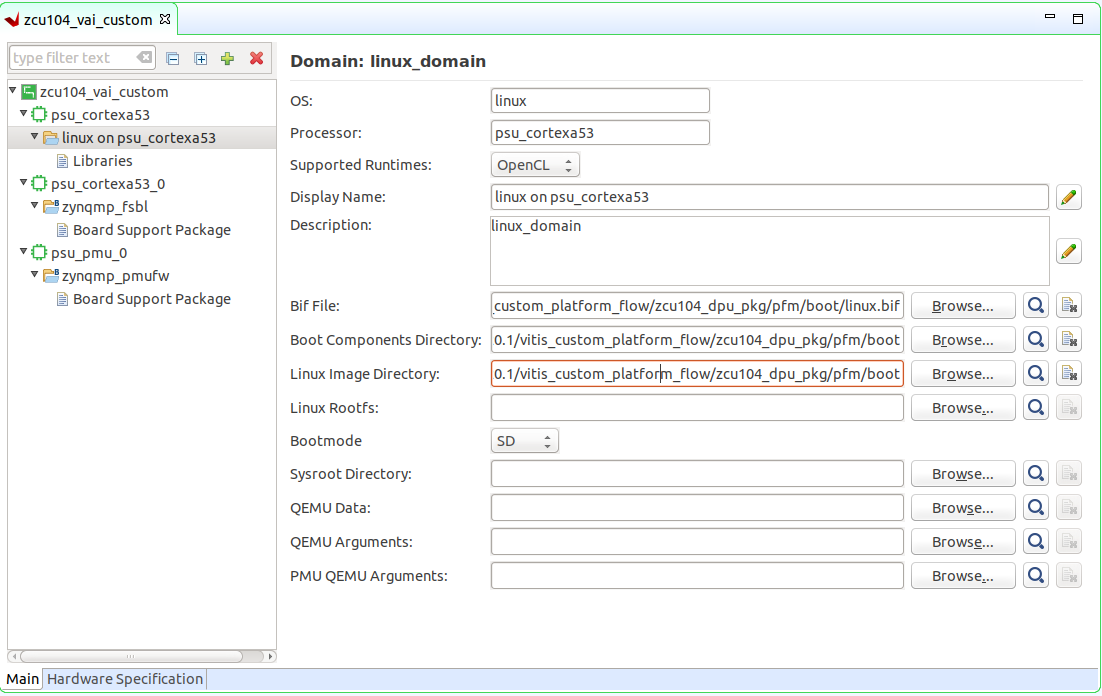
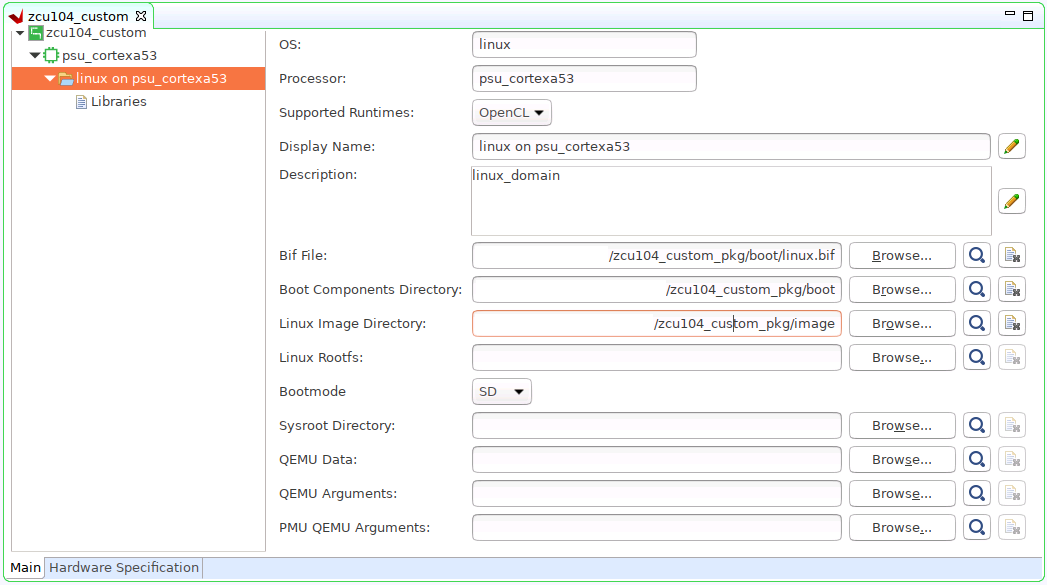
ml:sec5:m2: update step vitis platform

Changed region(s): [[0.0, 0.0, 1.0, 1.0], [0.2445, 0.7692, 0.3973, 0.8615]]

diff --git a/Machine_Learning_Tutorial/Section_5-Platform_Creation/Module_2/README.md b/Machine_Learning_Tutorial/Section_5-Platform_Creation/Module_2/README.md
@@ -215,6 +215,9 @@ write_hw_platform -unified ./zcu104_custom_platform.xsa
 ## Step 2: Create the Software Components with PetaLinux
 
 A Vitis platform requires software components. Xilinx provides common software images for quick evaluation. Here since we'd like to do more customization, we'll use the PetaLinux tools to create the Linux image and sysroot with XRT support. Yocto or third-party Linux development tools can also be used as long as they produce the same Linux output products as PetaLinux. 
+
+### PetaLinux Project Settings
+
 1. Setup PetaLinux environment: `source <petaLinux_tool_install_dir>/settings.sh`
 
 2. Create a PetaLinux project named ***zcu104_custom_plnx*** and configure the hw with the XSA file we created before:
@@ -228,9 +231,13 @@ A Vitis platform requires software components. Xilinx provides common software i
 3. A petalinux-config menu would be launched, select ***DTG Settings->MACHINE_NAME***, modify it to ```zcu104-revc```.<br />
     ***Note: If you are using a Xilinx development board it is recommended to modify the machine name so that the board configurations would be involved in the DTS auto-generation. Otherwise you would need to configure the associated settings(e.g. the PHY information DTS node) by yourself manually.***<br />
 
-4. Add user packages by appending the CONFIG_x lines below to the ***<your_petalinux_project_dir>/project-spec/meta-user/conf/user-rootfsconfig*** file.
 
-     ***Note: This step is not a must but it makes it easier to find and select all required packages in next step.***
+
+### Customize Root File System, Kernel, Device Tree and U-boot
+
+1. Add user packages by appending the CONFIG_x lines below to the ***<your_petalinux_project_dir>/project-spec/meta-user/conf/user-rootfsconfig*** file.
+
+   ***Note: This step is not a must but it makes it easier to find and select all required packages in next step.***
 
    Packages for base XRT support:
 
@@ -245,14 +252,14 @@ A Vitis platform requires software components. Xilinx provides common software i
    CONFIG_e2fsprogs-resize2fs
    CONFIG_parted
     ```
-   
+
     Packages for Vitis-AI dependencies support:
 
     ```
    CONFIG_packagegroup-petalinux-vitisai
     ```
 
-	Packages for natively building Vitis AI applications on target board: 
+   Packages for natively building Vitis AI applications on target board: 
 
     ```
    CONFIG_packagegroup-petalinux-self-hosted
@@ -274,24 +281,29 @@ A Vitis platform requires software components. Xilinx provides common software i
     CONFIG_packagegroup-petalinux-matchbox
     ```
 
-5. Run ```petalinux-config -c rootfs``` and select ***user packages***, select name of rootfs all the libraries listed above, save and exit.
-![petalinux_rootfs.png](images/petalinux_rootfs.png)
+2. Run ```petalinux-config -c rootfs``` and select ***user packages***, select name of rootfs all the libraries listed above, save and exit.
+    ![petalinux_rootfs.png](images/petalinux_rootfs.png)
 
-6. Enable OpenSSH and disable dropbear 
-Dropbear is the default SSH tool in Vitis Base Embedded Platform. If OpenSSH is used to replace Dropbear, the system could achieve 4x times faster data transmission speed (tested on 1Gbps Ethernet environment). Since Vitis-AI applications may use remote display feature to show machine learning results, using OpenSSH can improve the display experience.<br /> 
-    a) Run ```petalinux-config -c rootfs```.<br /> 
-    b) Go to ***Image Features***.<br /> 
-    c) Disable ***ssh-server-dropbear*** and enable ***ssh-server-openssh***. 
-    ![ssh_settings.png](images/ssh_settings.png)<br />
-    d) Go to ***Filesystem Packages-> misc->packagegroup-core-ssh-dropbear*** and disable ***packagegroup-core-ssh-dropbear***.<br />
-    e) Go to ***Filesystem Packages  -> console  -> network -> openssh*** and enable ***openssh***, ***openssh-sftp-server***, ***openssh-sshd***, ***openssh-scp***.<br />
-7. In rootfs config go to ***Image Features*** and enable ***package-management*** and ***debug_tweaks*** option, store the change and exit.<br />
-8. CPU IDLE would cause CPU IDLE when JTAG is connected. So it is recommended to disable the selection during project development phase. It can be enabled for production to save power.<br /> 
+3. Enable OpenSSH and disable dropbear 
+    Dropbear is the default SSH tool in Vitis Base Embedded Platform. If OpenSSH is used to replace Dropbear, the system could achieve 4x times faster data transmission speed (tested on 1Gbps Ethernet environment). Since Vitis-AI applications may use remote display feature to show machine learning results, using OpenSSH can improve the display experience. 
+   a) Run ```petalinux-config -c rootfs``` 
+   b) Go to ***Image Features***. 
+   c) Disable ***ssh-server-dropbear*** and enable ***ssh-server-openssh***. 
+   ![ssh_settings.png](images/ssh_settings.png)<br />
+   d) Go to ***Filesystem Packages-> misc->packagegroup-core-ssh-dropbear*** and disable ***packagegroup-core-ssh-dropbear***.
+
+   e) Go to ***Filesystem Packages  -> console  -> network -> openssh*** and enable ***openssh***, ***openssh-sftp-server***, ***openssh-sshd***, ***openssh-scp***.
+
+4. In rootfs config go to ***Image Features*** and enable ***package-management*** and ***debug_tweaks*** option, store the change and exit.
+
+5. CPU IDLE would cause CPU IDLE when JTAG is connected. So it is recommended to disable the selection during project development phase. It can be enabled for production to save power.<br /> 
     a) Type ```petalinux-config -c kernel```<br /> 
     b) Ensure the following are ***TURNED OFF*** by entering 'n' in the [ ] menu selection for:<br />
+
        - ***CPU Power Mangement > CPU Idle > CPU idle PM support***<br />
        - ***CPU Power Management > CPU Frequency scaling > CPU Frequency scaling***<br /><br />
-9. Update the Device tree to include the zocl driver, define 32 interrupt inputs and decrease SD Card speed for better card compatibility on ZCU104 boarad by appending the text below to the ***project-spec/meta-user/recipes-bsp/device-tree/files/system-user.dtsi*** file. 
+
+6. Update the Device tree to include the zocl driver, define 32 interrupt inputs and decrease SD Card speed for better card compatibility on ZCU104 boarad by appending the text below to the ***project-spec/meta-user/recipes-bsp/device-tree/files/system-user.dtsi*** file. 
 ```
 &amba {
 	zyxclmm_drm {
@@ -330,26 +342,29 @@ Open ***project-spec/meta-user/recipes-bsp/u-boot/files/platform-top.h*** and ad
 #define CONFIG_SYS_BOOTM_LEN 0x80000000
 #undef CONFIG_SYS_BOOTMAPSZ
 ```
-11. From within the PetaLinux project (petalinux), type ```petalinux-build``` to build the project.<br />
-12. Create a sysroot self-installer for the target Linux system:<br />
-```
-cd images/linux
-petalinux-build --sdk
-```
-***Note: We would store all the necessary files for Vitis platform creation flow. Here we name it ```zcu104_dpu_pkg ```. Then we create a pfm folder inside.***<br />
 
-13. Type ```./sdk.sh``` to install PetaLinux SDK, provide a full pathname to the output directory ***<full_pathname_to_zcu104_dpu_pkg>/pfm***(here in this example I use ***/home/wuxian/wu_project/vitis2020.1/vitis_custom_platform_flow/zcu104_dpu_pkg/pfm***) and confirm.<br />
-14. We would install Vitis AI library and DNNDK into this rootfs in the future.<br />
-15. After the PetaLinux build succeeds, the generated Linux software components are in the ***<your_petalinux_dir>/images/linux directory***. For our example, the ***images/linux*** directory contains the generated image and ELF files listed below. Copy these files to the ***<full_pathname_to_zcu104_dpu_pkg>/pfm/boot*** directory in preparation for running the Vitis platform creation flow:<br />
-```
-    - image.ub
-    - fsbl.elf (Rename the petalinux generated zynq_fsbl.elf to fsbl.elf)
+### Build Image and Prepare for Platform Packaging
+
+We would store all the necessary files for Vitis platform creation flow. Here we name it ```zcu104_custom_pkg ```. Then we create a pfm folder inside.
+
+1. From any directory within the PetaLinux project, build the PetaLinux project.
+
+   ```
+   petalinux-build
+   ```
+
+   
+
+2. Copy the generated Linux software boot components from ***<your_petalinux_dir>/images/linux directory*** to the ***<full_pathname_to_zcu104_custom_pkg>/pfm/boot*** directory to prepare for running the Vitis platform packaging flow:
+
+    - zynqmp_fsbl.elf: ***rename as fsbl.elf*** as a workaround of a Vitis known issue.
     - pmufw.elf
     - bl31.elf
     - u-boot.elf
-    - boot.scr
-```
-16. Add a BIF file (linux.bif) to the ***<full_pathname_to_zcu104_dpu_pkg>/pfm/boot*** directory with the contents shown below. The file names should match the contents of the boot directory. The Vitis tool expands these pathnames relative to the sw directory of the platform at v++ link time or when generating an SD card. However, if the bootgen command is used directly to create a BOOT.BIN file from a BIF file, full pathnames in the BIF are necessary. Bootgen does not expand the names between the <> symbols.<br />
+
+Note: These files are the sources of creating BOOT.BIN.
+
+3. Add a BIF file (linux.bif) to the ***<full_pathname_to_zcu104_custom_pkg>/pfm/boot*** directory with the contents shown below. The file names should match the contents of the boot directory. The Vitis tool expands these pathnames relative to the sw directory of the platform at v++ link time or when generating an SD card. However, if the bootgen command is used directly to create a BOOT.BIN file from a BIF file, full pathnames in the BIF are necessary. Bootgen does not expand the names between the <> symbols.<br />
 ```
 /* linux */
  the_ROM_image:
@@ -362,54 +377,82 @@ petalinux-build --sdk
  	[destination_cpu=a53-0, exception_level=el-2] <u-boot.elf>
  }
 ```
-***Note: Now we prepare the HW platform and SW platform, next we would create a Vitis Platform.***
+
+4. Copy the generated Linux software components from ***<your_petalinux_dir>/images/linux directory*** to the ***<full_pathname_to_zcu104_custom_pkg>/pfm/image*** directory. Contents in this directory will be packaged to FAT32 partition by v++ package tool.
+
+    - boot.scr: script for u-boot initialization
+    - image.ub
+
+5. Create a sysroot self-installer for the target Linux system
+
+    ```
+    petalinux-build --sdk
+    ```
+    
+6. Install sysroot: type ```./images/linux/sdk.sh``` to install PetaLinux SDK, provide a full pathname to the output directory ***zcu104_custom_pkg/pfm*** (This is an example ) and confirm.<br />
+
+	We would install Vitis AI library and DNNDK into this rootfs in the future.
+
+***Note: Now HW platform and SW platform are all generated. Next we would package the Vitis Platform.***
 
 ## Step 3: Create the Vitis Platform
 
-1. Source Vitis and XRT settings<br />
-```
-source <Vitis_Install_Directory>/settings64.sh
-source /opt/xilinx/xrt/setup.sh
-```
-2. Go to the ***zcu104_dpu_pkg*** folder you created: ```cd <full_pathname_to_zcu104_dpu_pkg>```.<br />
-3. Launch Vitis by typing ```vits``` in the console.<br />
-4. Select ***zcu104_dpu_pkg*** folder as workspace directory.<br />
-![vitis_launch.png](images/vitis_launch.png)<br /><br />
-5. In the Vitis IDE, select ***File > New > Platform Project*** to create a platform project.<br />
-6. In the Create New Platform Project dialog box, do the following:<br />
-   a) Enter the project name. For this example, type ```zcu104_vai_custom```.<br />
-   b) Leave the checkbox for the default location selected.<br />
-   c) Click ***Next***.<br />
-7. In the Platform Project dialog box, do the following:<br />
-   a) Select ***Create from hardware specification (XSA)***.<br />
-   b) Click ***Next***.<br />
-8. In the Platform Project Specification dialog box, do the following:<br />
-   a) Browse to the XSA file generated by the Vivado. In this case, it is located in ```vitis_custom_platform_flow/zcu104_custom_platform/xsa_gen/zcu104_custom_platform.xsa```.<br />
-   b) Set the operating system to ***linux***.<br />
-   c) Set the processor to ***psu_cortexa53***.<br />
-   d) Leave the checkmark selected to generate boot components.<br />
-   e) Click ***Finish***.<br />
-9. In the Platform Settings view, observe the following:<br />
-   - The name of the Platform Settings view matches the platform project name of ***zcu104_vai_custom***.<br />
-   - A psu_cortexa53 device icon is shown, containing a Linux on psu_cortexa53 domain.<br />
-   - A psu_cortexa53 device icon is shown, containing a zynqmp_fsbl BSP.<br />
-   - A psu_pmu_0 device icon is shown, containing a zynqmp_pmufw BSP.<br />
-10. Click the linux on psu_cortexa53 domain, browse to the locations and select the directory or file needed to complete the dialog box for the following:
-```
-Linux Build Output:
-    Browse to zcu104_dpu_pkg/pfm/boot and click OK.
-    
-Bif file:
-    Browse to zcu104_dpu_pkg/pfm/boot/linux.bif file and click OK.
+First we create a Vitis platform project with the XSA file generated by Vivado from Step 1.
 
-Image:
-    Browse to zcu104_dpu_pkg/pfm/boot and click OK.
-```
+1. Source Vitis and XRT settings
+
+    ```
+    source <Vitis_Install_Directory>/settings64.sh
+    source /opt/xilinx/xrt/setup.sh
+    ```
+
+2. Go to the ***zcu104_custom_pkg*** folder you created: 
+
+    ```
+    cd <full_pathname_to_zcu104_custom_pkg>
+    ```
+
+3. Launch Vitis by typing ```vits``` in the console.
+
+4. Select ***zcu104_custom_pkg*** folder as workspace directory.
+
+5. In the Vitis IDE, select ***File > New > Platform Project*** to create a platform project.<br />
+
+6. Enter the project name. For this example, type ```zcu104_custom```, click ***Next***.
+
+7. In the Platform page, 
+
+    a) Click ***Browse*** button, select the XSA file generated by the Vivado. In this case, it is located in ```vivado/zcu104_custom_platform.xsa```.
+    b) Set the operating system to ***linux***.
+
+    c) Set the processor to ***psu_cortexa53***.
+
+    d) Architecture: ***64-bit***
+
+    e) ***Uncheck*** option ***Generate boot components***, because we'll use PetaLinux generated boot components.
+
+    f) Click ***Finish***.
+
+Next we setup software settings in Platform Settings view.
+
+1. In the Platform Settings view, observe the following:<br />
+   - The name of the Platform Settings view matches the platform project name of ***zcu104_custom***.<br />
+   - A psu_cortexa53 device icon is shown, containing a Linux on psu_cortexa53 domain.<br />
+2. Click the ***linux on psu_cortexa53*** domain, browse to the locations and select the directory or file needed to complete the dialog box for the following:
+
+	- ***Bif file***: Browse to ***zcu104_custom_pkg/pfm/boot/linux.bif*** file and click OK.
+	- ***Boot Components Direcotory***: Browse to ***zcu104_custom_pkg/pfm/boot*** and click OK.
+	- ***Linux Image Directory***: Browse to ***zcu104_custom_pkg/pfm/image*** and click OK.
+
 ![vitis_linux_config.png](images/vitis_linux_config.png)
-11. Click ***zcu104_vai_custom*** project in the Vitis Explorer view, click the ***Build*** button to generate the platform.
-![](images/build_vitis_platform.png)<br />
+11. Click ***zcu104_custom*** project in the Vitis Explorer view, click the ***Build*** button to generate the platform.
+![](images/build_vitis_platform.png)
 
 ***Note: The generated platform is placed in the export directory. BSP and source files are also provided for re-building the FSBL and PMU if desired and are associated with the platform. The platform is ready to be used for application development.***
+
+![](./images/vitis_platform_output.png)
+
+
 
 ## Step 4: Test the Platform
 
@@ -417,12 +460,12 @@ Image:
 
 1. Download Vitis AI by calling command ```git clone https://github.com/Xilinx/Vitis-AI.git```.<br />
 2. Navigate to the repository:```cd Vitis-AI```, set the tag to proper tag(here we use **v1.2**) by typing: ```git checkout v1.2```.<br />
-3. If you don't want to destroy the TRD reference design. Copy ***DPU-TRD*** folder into another directory. For example I would copy that into my ***zcu104_dpu_pkg*** folder: ```cp -r DPU-TRD ~/wu_project/vitis2020.1/vitis_custom_platform_flow/zcu104_dpu_pkg/```<br />
+3. If you don't want to destroy the TRD reference design. Copy ***DPU-TRD*** folder into another directory. For example I would copy that into my ***zcu104_custom_pkg*** folder: ```cp -r DPU-TRD ./zcu104_custom_pkg/```<br />
 4. Source Vitis tools setting sh file: ```source <vitis install path>/Vitis/2020.1/settings64.sh```.<br />
 5. Source XRT sh file:```source opt/xilinx/xrt/setup.sh```.<br />
-6. Export SDX_PLATFORM with the directory of the custom platform xpfm file which you created before. Here in my project it would be: ```export SDX_PLATFORM=/home/wuxian/wu_project/vitis2020.1/vitis_custom_platform_flow/zcu104_dpu_pkg/zcu104_vai_custom/export/zcu104_vai_custom/zcu104_vai_custom.xpfm```. Remember now this custom platform name is ***zcu104_vai_custom***.<br />
+6. Export ***PLATFORM_REPO_PATHS*** with the directory of the custom platform xpfm file which you created before so that it can be found by Vitis. Here in my project it would be: ```export PLATFORM_REPO_PATHS=<path_to/zcu104_custom_pkg/zcu104_custom/export/zcu104_custom>```. Remember now this custom platform name is ***zcu104_custom***.<br />
 7. Navigate to the copy of the ***DPU-TRD*** folder, then go to the ***./prj/Vitis*** folder.<br />
-There are 2 files can be used to modify the DPU settings: The ***config_file/prj_config*** file is for DPU connection in Vitis project and the dpu_conf.vh is for other DPU configurations. Here we would modify the prj_config so that 2 DPU cores are enabled. And then we modify dpu_conf.vh as [DPU-TRD readme](https://github.com/Xilinx/Vitis-AI/blob/v1.2/DPU-TRD/README.md) suggested.<br />
+There are 2 files can be used to modify the DPU settings: The ***config_file/prj_config*** file is for DPU connection in Vitis project and the ***dpu_conf.vh*** is for other DPU configurations. Here we would modify the ***prj_config*** so that 2 DPU cores are enabled. And then we modify ***dpu_conf.vh*** as [DPU-TRD readme](https://github.com/Xilinx/Vitis-AI/blob/v1.2/DPU-TRD/README.md) suggested.<br />
 8. Modify the ***config_file/prj_config*** like below:<br />
 ```
 
@@ -453,7 +496,7 @@ prop=run.impl_1.strategy=Performance_Explore
 #param=place.runPartPlacer=0
 
 ```
-9. Modify dpu_conf.vh from:<br />
+9. Modify ***dpu_conf.vh*** from:<br />
 ```
 `define URAM_DISABLE 
 ```
@@ -462,20 +505,20 @@ to<br />
 `define URAM_ENABLE 
 ```
 
-10. Generate the XO file by typing: ```make binary_container_1/dpu.xo DEVICE=zcu104_vai_custom```.<br />
-11. Verify if the XO file is generated here: ***<zcu104_dpu_pkg directory>/DPU-TRD/prj/Vitis/binary_container_1/dpu.xo***.<br />
+10. Generate the XO file by typing: ```make binary_container_1/dpu.xo DEVICE=zcu104_custom```.<br />
+11. Verify if the XO file is generated here: ***<zcu104_custom_pkg directory>/DPU-TRD/prj/Vitis/binary_container_1/dpu.xo***.<br />
 
-### Create and Build a Vitis application
+### Create and Build a Vitis Application
 1. Open Vitis workspace you were using before.<br />
 2. Select ***File -> New -> Application Project***.<br />
 3. Click ***next***<br />
-4. Select ***zcu104_vai_custom*** as platform, click ***next***.<br />
+4. Select ***zcu104_custom*** as platform, click ***next***.<br />
 5. Name the project ```hello_dpu```, click ***next***.<br />
-5. Set Domain to ***linux on psu_cortexa53***, set ***Sys_root path*** to ```<full_pathname_to_zcu104_dpu_pkg>/pfm/sysroots/aarch64-xilinx-linux```(as you created by running ***sdk.sh***), keep the ***Kernel Image*** setting in default and click ***next***.<br />
+5. Set Domain to ***linux on psu_cortexa53***, set ***Sys_root path*** to ```<full_pathname_to_zcu104_custom_pkg>/pfm/sysroots/aarch64-xilinx-linux```(as you created by running ***sdk.sh***), keep the ***Kernel Image*** setting in default and click ***next***.<br />
 6. Select ***System Optimization Examples -> Empty application*** and click ***finish*** to generate the application.<br />
-7. Right click on the ***src*** folder under your ***hello_dpu*** application  in the Expplorer window, and select "Import Sources"
+7. Right click on the ***src*** folder under your ***hello_dpu*** application  in the Explorer window, and select "Import Sources"
 ![import_sources.png](images/import_sources.png)<br /><br />
-8. Choose from directory ***<zcu104_dpu_pkg directory>/DPU-TRD/prj/Vitis/binary_container_1/*** as the target location, and import the ***dpu.xo*** file that we just created.<br />
+8. Choose from directory ***<zcu104_custom_pkg directory>/DPU-TRD/prj/Vitis/binary_container_1/*** as the target location, and import the ***dpu.xo*** file that we just created.<br />
 9. Import sources again, and add the cpp, header and prj_config files from ***ref_files/src*** folder provided by this Git repository.<br />
 10. In the Explorer window double click the hello_dpu.prj file to open it, change the ***Active Build configuration*** from ***Emulation-SW*** to ***Hardware***.<br />
 11. Under Hardware Functions, click the lightning bolt logo to ***Add Hardware Function***.<br />
@@ -502,20 +545,21 @@ hineon
 ![vitis_include_settings.png](images/vitis_include_settings.png)<br /><br />
 ***These steps are used to make sure your application can call libs in rootfs directly on Vitis appilcation build***
 20. The Vitis AI library and DNNDK are not included in PetaLinux SDK rootfs, now let's install them into the rootfs directory:<br />
-***Note:*** We should follow the section ***Setting Up the Host For Edge*** of [Vitis AI library readme file](https://github.com/Xilinx/Vitis-AI/blob/v1.2/Vitis-AI-Library/README.md) to install the Vitis AI library and section ***Setup cross-compiler for Vitis AI DNNDK and make samples*** of [DNNDK readme file](https://github.com/Xilinx/Vitis-AI/blob/v1.2/mpsoc/README.md) to install the DNNDK. If you feel difficult to following the official guide there you can refer to the following ones. ***Please just skip these steps if you already install the libs referring to the readme files***:<br />
+    ***Note:*** We should follow the section ***Setting Up the Host For Edge*** of [Vitis AI library readme file](https://github.com/Xilinx/Vitis-AI/blob/v1.2/Vitis-AI-Library/README.md) to install the Vitis AI library and section ***Setup cross-compiler for Vitis AI DNNDK and make samples*** of [DNNDK readme file](https://github.com/Xilinx/Vitis-AI/blob/v1.2/mpsoc/README.md) to install the DNNDK. If you feel difficult to following the official guide there you can refer to the following ones. ***Please just skip these steps if you already install the libs referring to the readme files***:<br />
     a) Download the [vitis_ai_2020.1-r1.2.0.tar.gz](https://www.xilinx.com/bin/public/openDownload?filename=vitis_ai_2020.1-r1.2.0.tar.gz) to a particular directory(here we take ***~/Downloads*** as example) and install it to the roofs folder:<br />
+
     ```
     cd ~/Downloads # Or some place else you download the vitis_ai_2020.1-r1.2.0.tar.gz file
-    tar -xzvf vitis_ai_2020.1-r1.2.0.tar.gz -C <full_pathname_to_zcu104_dpu_pkg>/pfm/sysroots/aarch64-xilinx-linux
+    tar -xzvf vitis_ai_2020.1-r1.2.0.tar.gz -C <full_pathname_to_zcu104_custom_pkg>/pfm/sysroots/aarch64-xilinx-linux
     ```
     b) Download DNNDK runtime package [vitis-ai_v1.2_dnndk.tar.gz ](https://www.xilinx.com/bin/public/openDownload?filename=vitis-ai_v1.2_dnndk.tar.gz) to ***~/Downloads*** and install it into rootfs
     ```
     cd ~/Downloads # Or some place else you download the file
     tar -xzvf vitis-ai_v1.2_dnndk.tar.gz
     cd vitis-ai_v1.2_dnndk
-    ./install.sh <full_pathname_to_zcu104_dpu_pkg>/pfm/sysroots/aarch64-xilinx-linux
+    ./install.sh <full_pathname_to_zcu104_custom_pkg>/pfm/sysroots/aarch64-xilinx-linux
     ```
-***Now we install both the VAI lib and DNNDK packages into the rootfs set as Vitis sysroot, then we can build application on Vitis.***<br />
+    ***Now we install both the VAI lib and DNNDK packages into the rootfs set as Vitis sysroot, then we can build application on Vitis.***<br />
 
 21. Right click the ***hello_dpu*** project folder and select ***Build Project***<br />
 
